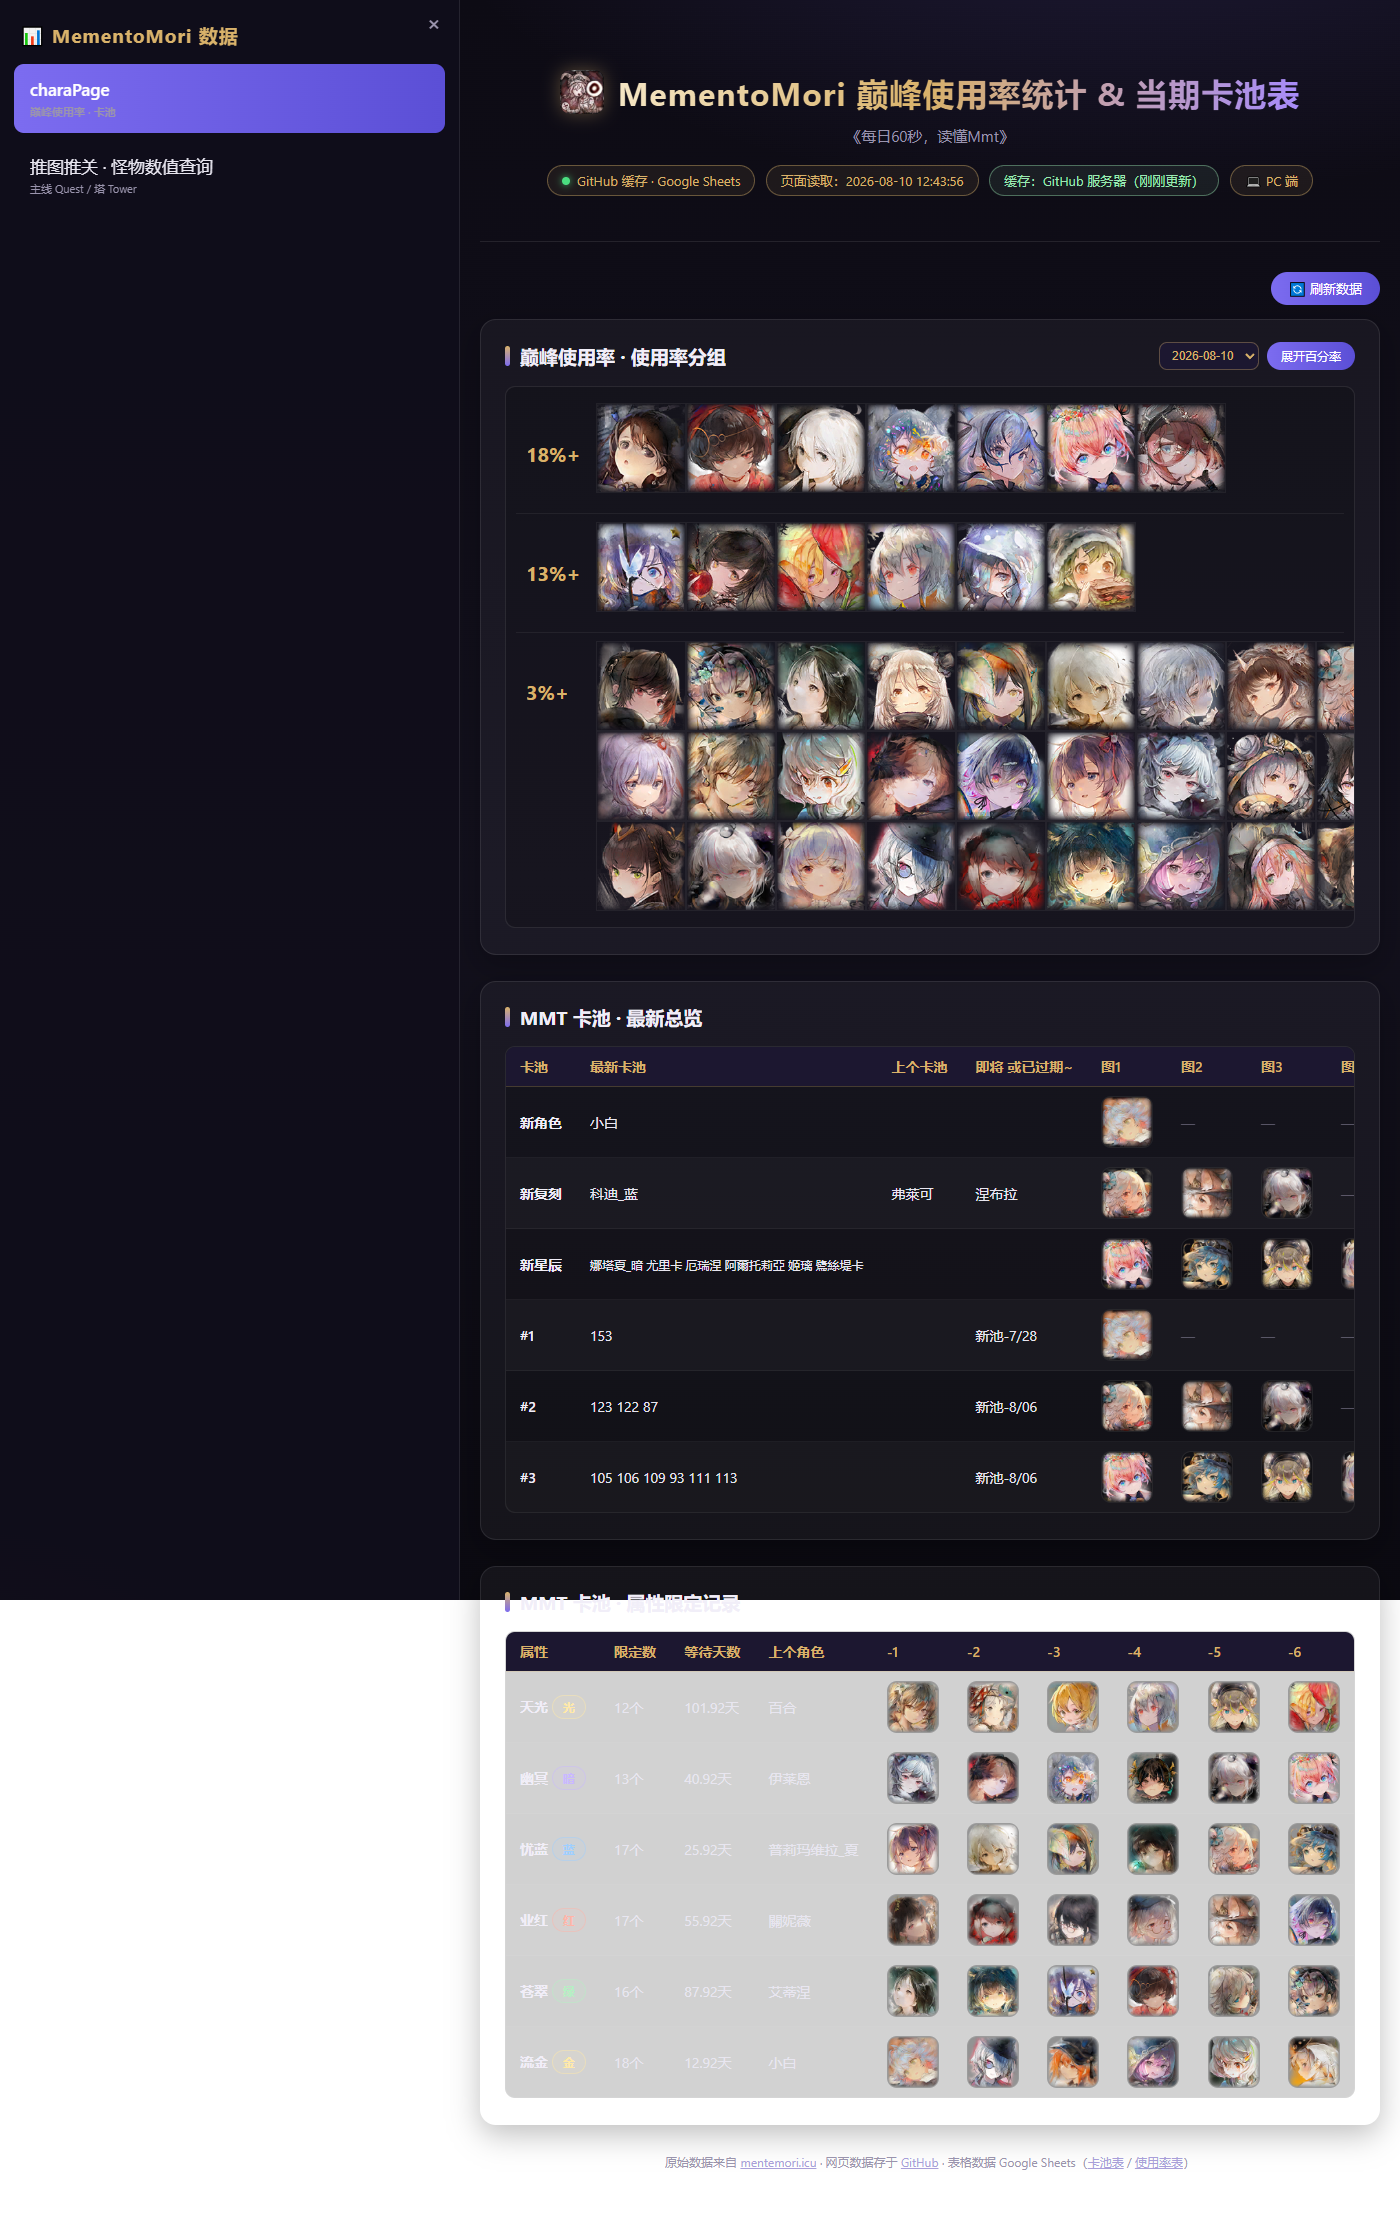
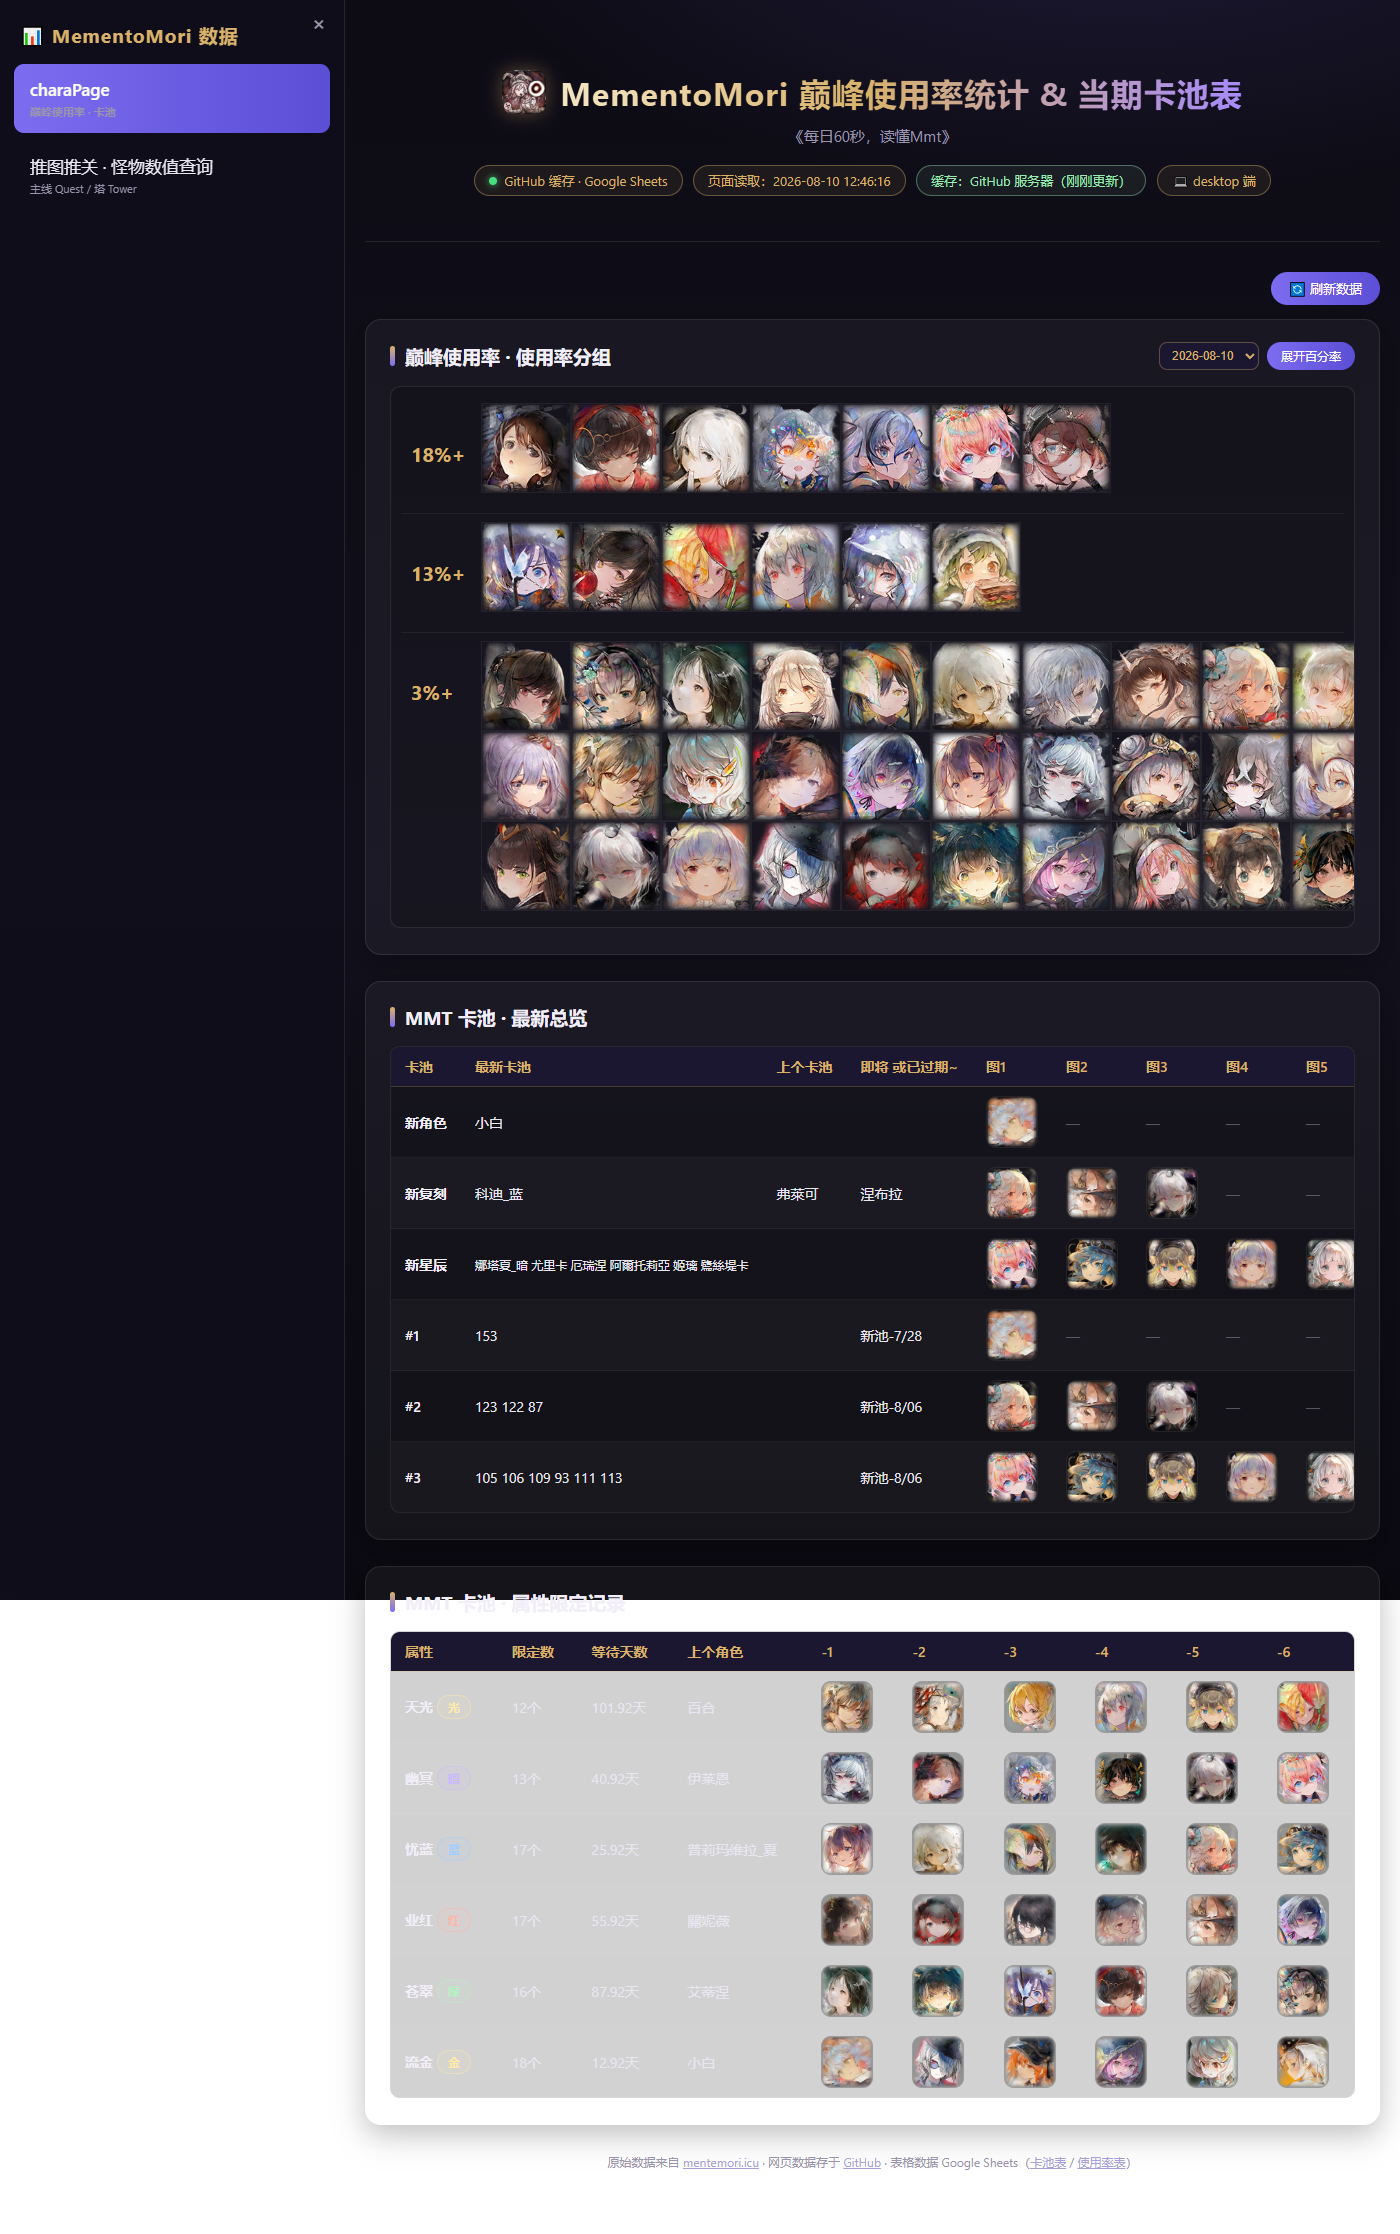
左侧宽度改为1.5倍(345px)

diff --git a/index.html b/index.html
@@ -231,7 +231,7 @@ footer a{color:#a99fd9}
   .ic{width:10%;height:auto;aspect-ratio:1/1}
   .ic .pct{font-size:10px;line-height:16px}
 }
-.side{position:fixed;left:0;top:0;bottom:0;width:460px;background:rgba(16,13,26,.97);border-right:1px solid var(--panel-border);padding:22px 14px;z-index:80;transform:translateX(-100%);transition:transform .25s ease;overflow-y:auto}
+.side{position:fixed;left:0;top:0;bottom:0;width:345px;background:rgba(16,13,26,.97);border-right:1px solid var(--panel-border);padding:22px 14px;z-index:80;transform:translateX(-100%);transition:transform .25s ease;overflow-y:auto}
 .side.open{transform:translateX(0)}
 .side .side-title{color:var(--gold);font-weight:700;font-size:19px;margin:0 0 16px;padding:0 6px;letter-spacing:1px}
 .side .side-link{display:block;color:var(--text);text-decoration:none;padding:14px 16px;border-radius:10px;margin-bottom:8px;font-size:17px;line-height:1.4}
@@ -243,7 +243,7 @@ footer a{color:#a99fd9}
 .side-mask{position:fixed;inset:0;background:rgba(0,0,0,.45);z-index:70;display:none}
 .side-mask.show{display:block}
 body.side-collapsed .side-open{display:block}
-@media (min-width:769px){body:not(.side-collapsed){padding-left:460px}}
+@media (min-width:769px){body:not(.side-collapsed){padding-left:345px}}
 @media (max-width:768px){header.top{padding-top:52px}}
 
 </style>

diff --git a/monsters.html b/monsters.html
@@ -72,7 +72,7 @@ tbody tr:last-child td{border-bottom:none}
 footer{text-align:center;color:var(--muted);font-size:12px;margin-top:10px;line-height:1.9}
 footer a{color:#a99fd9}
 /* ===== 左侧悬浮标题列 ===== */
-.side{position:fixed;left:0;top:0;bottom:0;width:460px;background:rgba(16,13,26,.97);border-right:1px solid var(--panel-border);padding:22px 14px;z-index:80;transform:translateX(-100%);transition:transform .25s ease;overflow-y:auto}
+.side{position:fixed;left:0;top:0;bottom:0;width:345px;background:rgba(16,13,26,.97);border-right:1px solid var(--panel-border);padding:22px 14px;z-index:80;transform:translateX(-100%);transition:transform .25s ease;overflow-y:auto}
 .side.open{transform:translateX(0)}
 .side .side-title{color:var(--gold);font-weight:700;font-size:19px;margin:0 0 16px;padding:0 6px;letter-spacing:1px}
 .side .side-link{display:block;color:var(--text);text-decoration:none;padding:14px 16px;border-radius:10px;margin-bottom:8px;font-size:17px;line-height:1.4}
@@ -85,7 +85,7 @@ footer a{color:#a99fd9}
 .side-mask.show{display:block}
 body.side-collapsed .side-open{display:block}
 @media (min-width:769px){
-  body:not(.side-collapsed){padding-left:460px}
+  body:not(.side-collapsed){padding-left:345px}
 }
 @media (max-width:768px){
   header.top{padding-top:52px}
